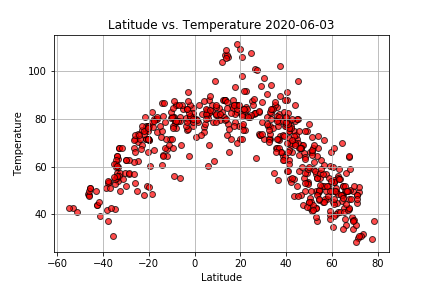
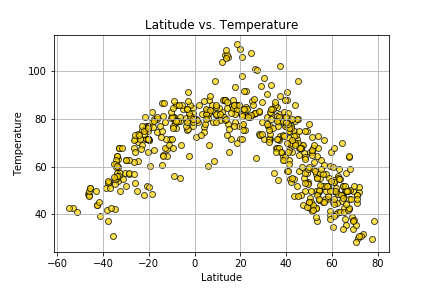
Updated Images for Weather Analysis

diff --git a/README.md b/README.md
@@ -36,7 +36,7 @@ Weather Analysis and Observations:
 * Southern hemisphere temperatures are directly proportional to latitude and norhtern hemisphere temperatures are inversely proportional to latitude. As latitude increases, temperature increases if you are in the southern hemisphere. As latitude decreases, temperature increases if you are in the northern hemisphere.
 * Peak temperatures occur at approximately 20 degrees north of the equator. Looking at seasonal data would be interesting to investgate the impact of the tilting of the Earth on its axis (23.5 degrees) with respect to the latitude of peak temperatures in different seasons.
 
-![Temperature Vs Latitude](MaxTemperature_vs_Lat.png)  ![Temp V Lat](Lat_vs_Temp.png)
+![Temperature Vs Latitude](MaxTemperature_vs_Lat_north.png)  ![Temperature Vs Latitude](MaxTemperature_vs_Lat_south.png)  ![Temp V Lat](Lat_vs_Temp.png)
 
 
 ### Biodiversity-challenge
